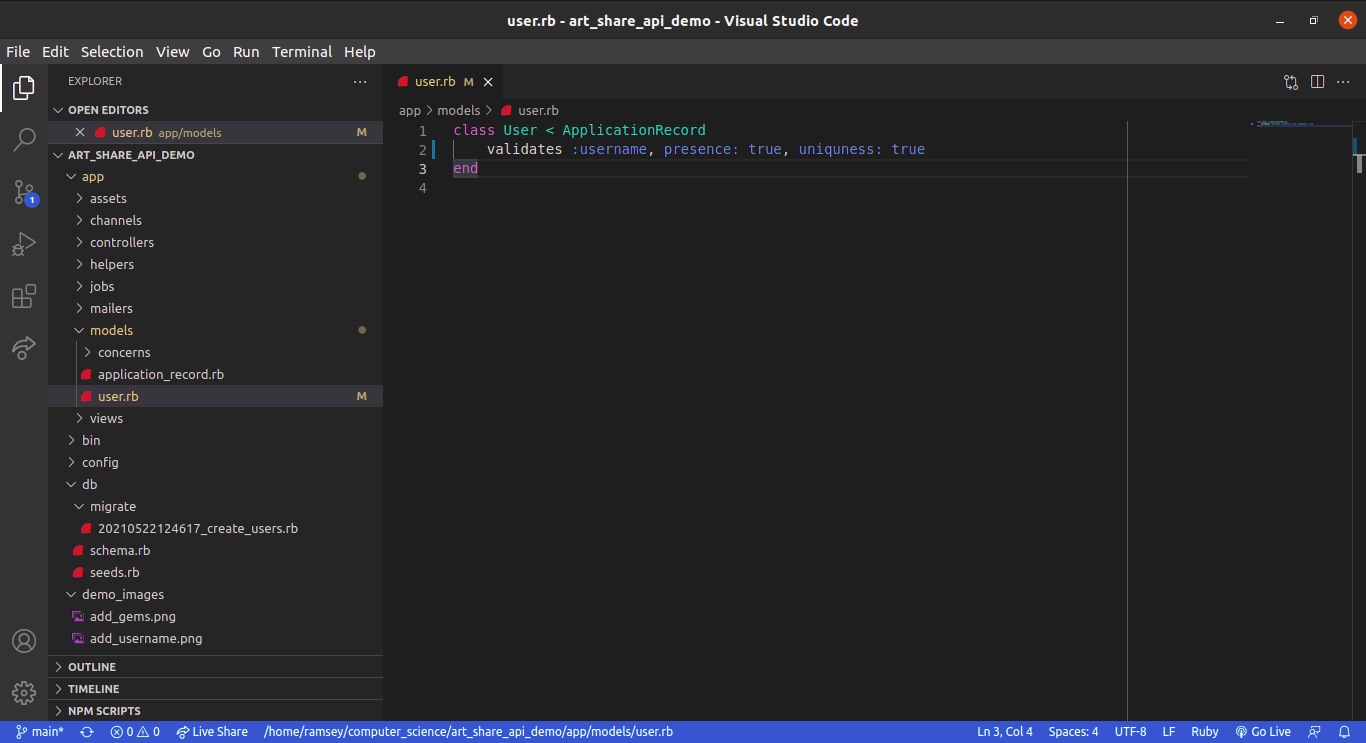
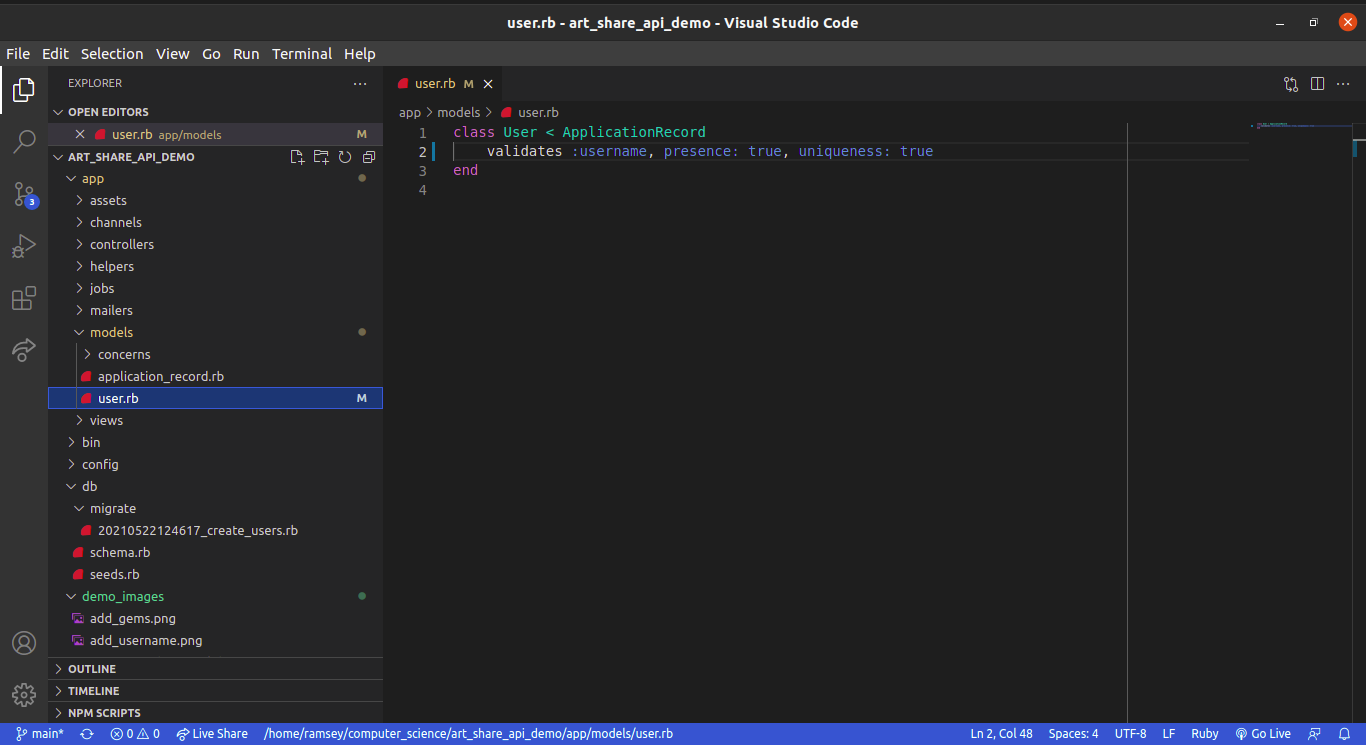
edit images for validations

diff --git a/app/models/user.rb b/app/models/user.rb
@@ -1,3 +1,3 @@
 class User < ApplicationRecord
-    # validates :username, presence: true, uniquness: true
+    validates :username, presence: true, uniqueness: true
 end
